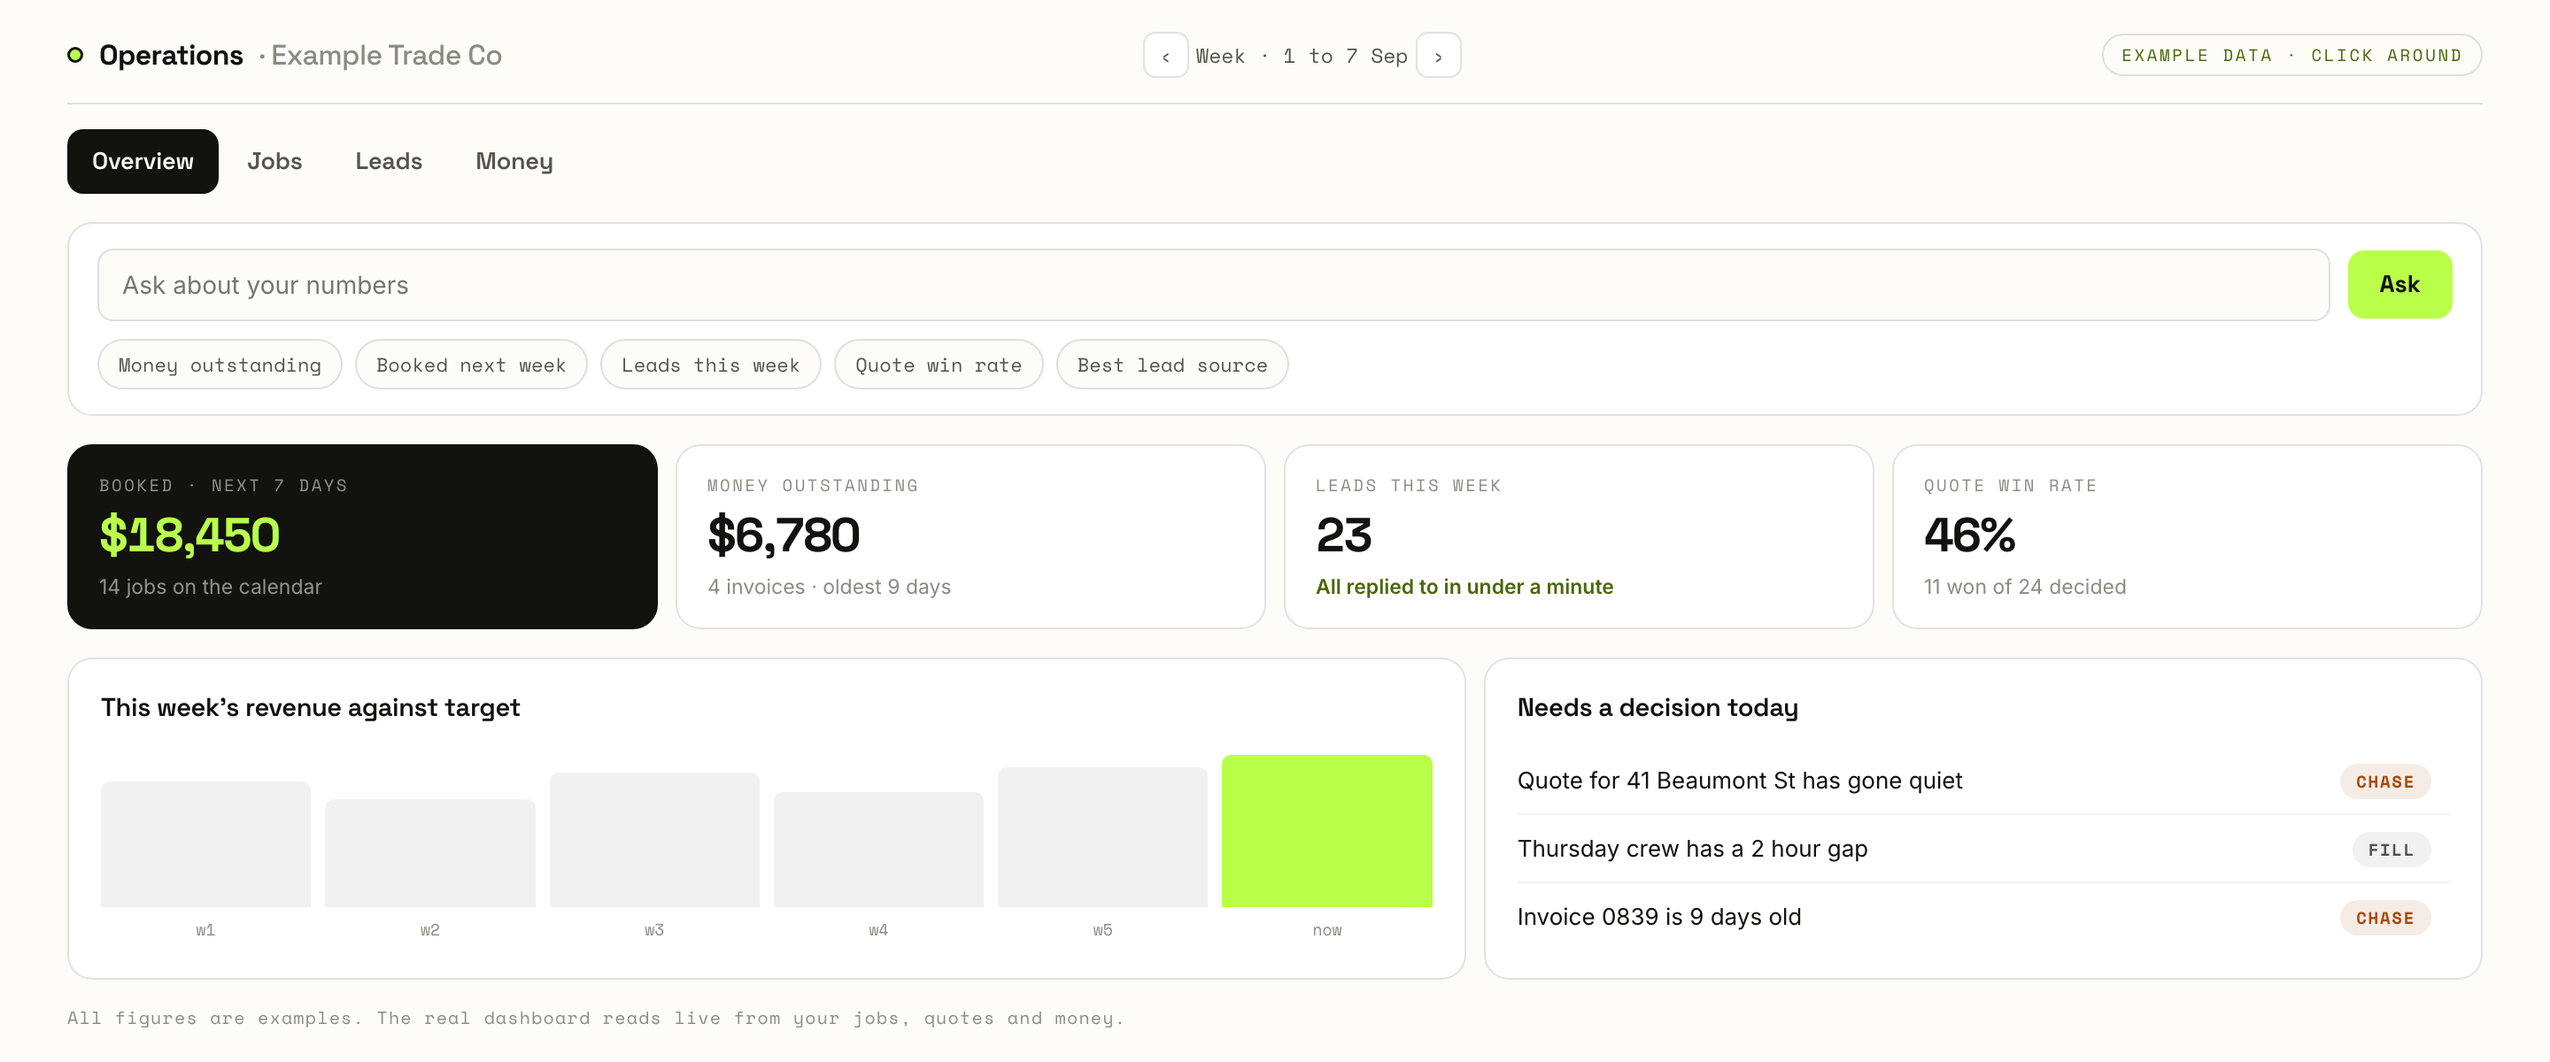
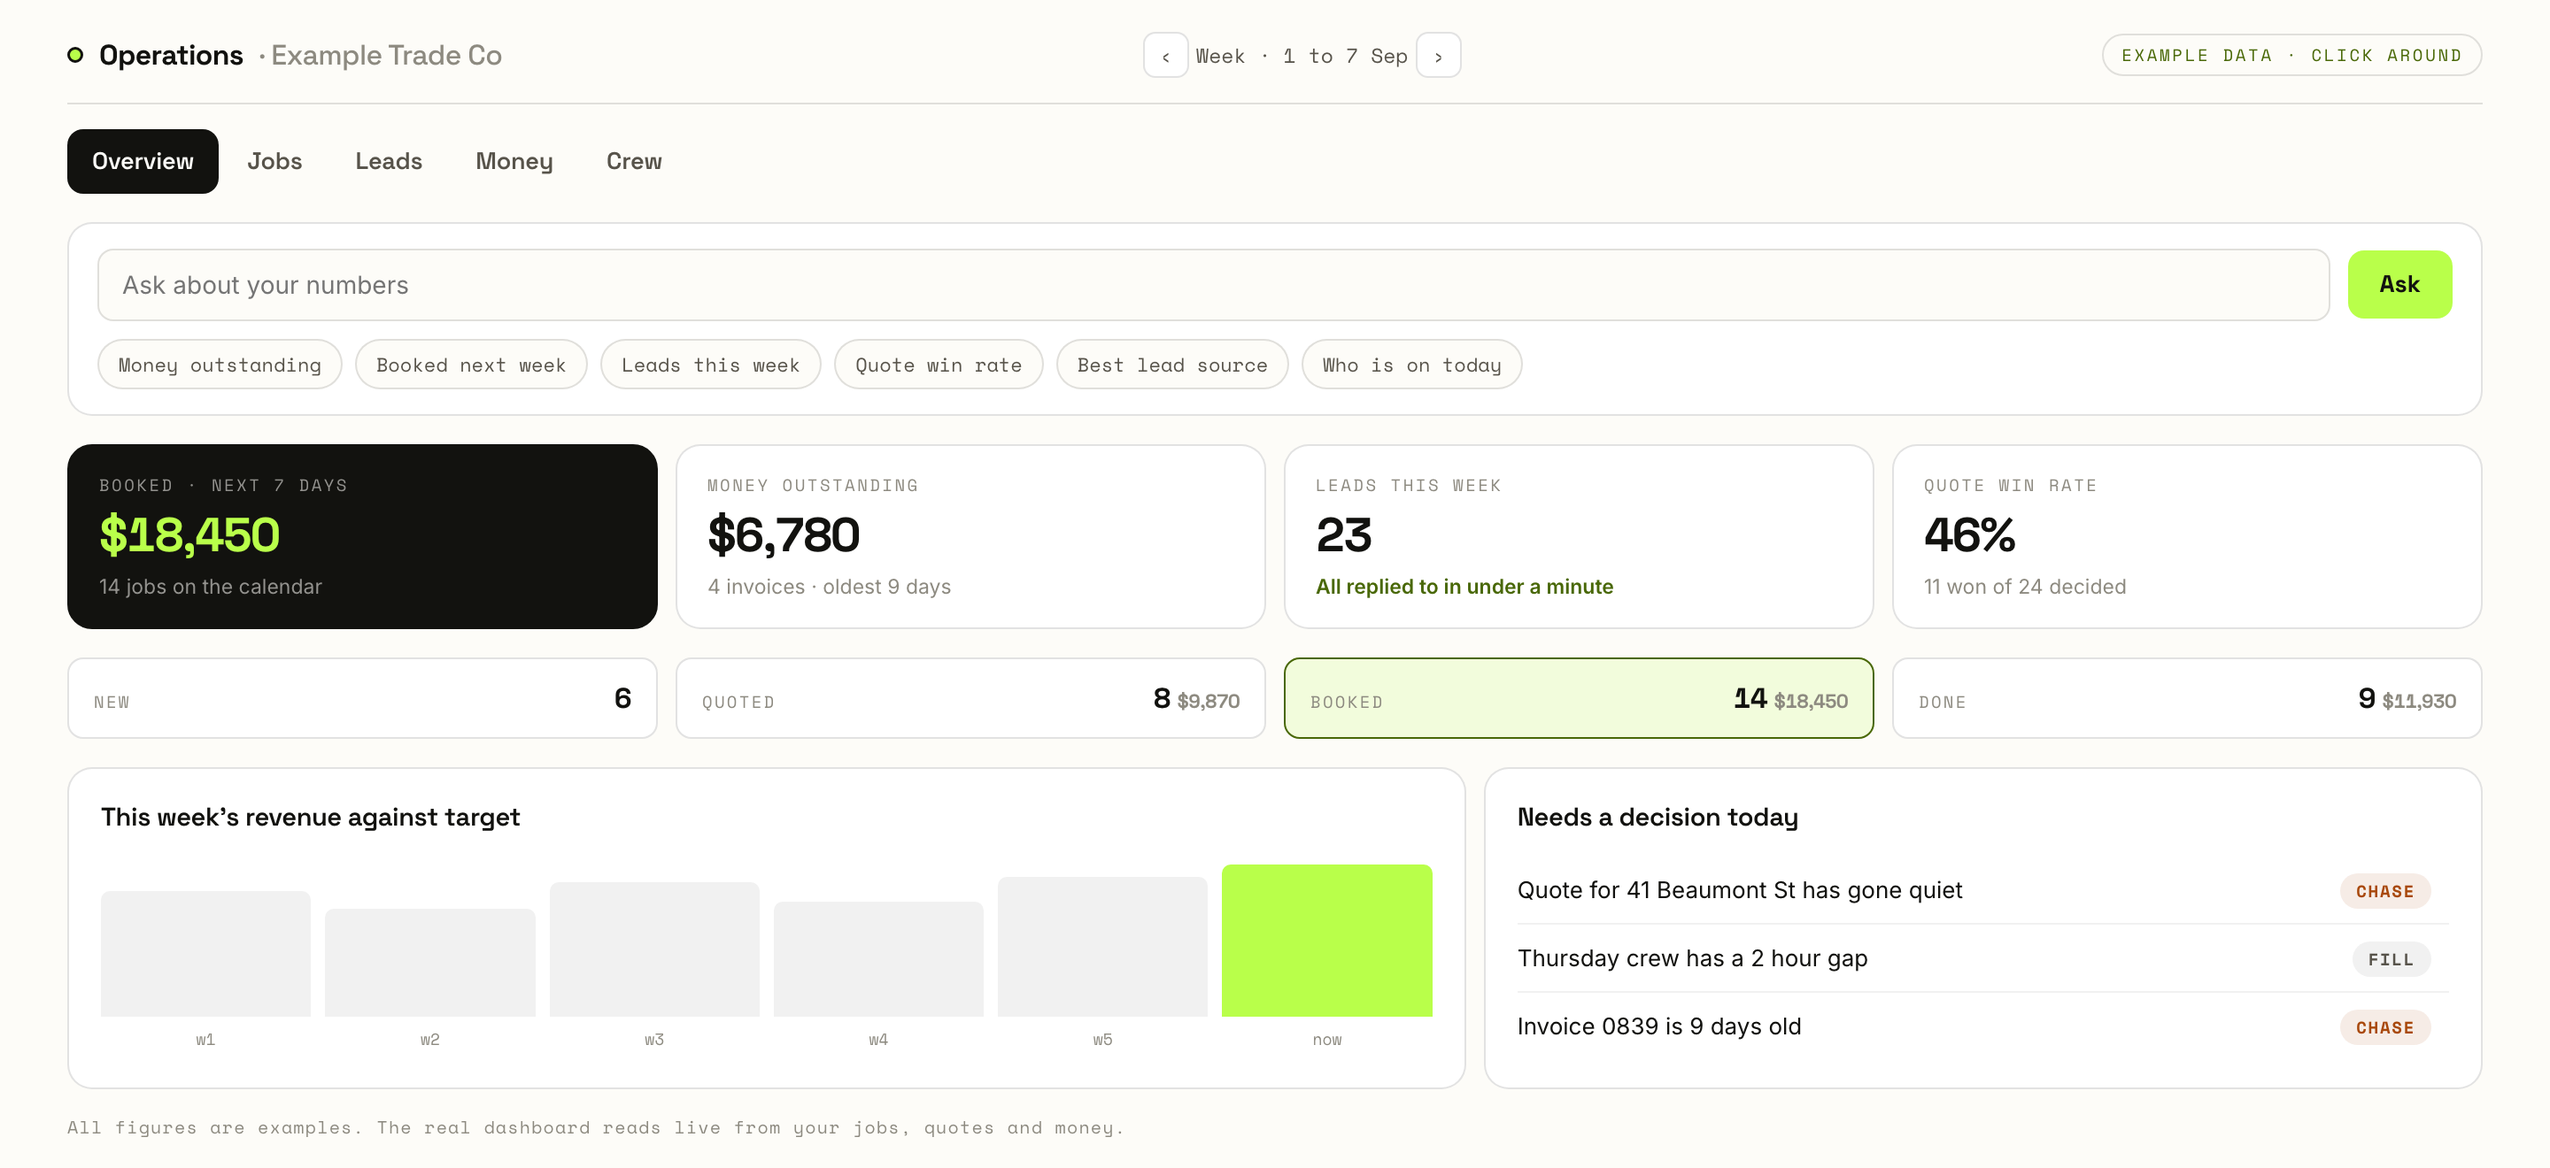
Dashboard demo: pipeline strip, margins, lead scoring, marketing costs, Crew tab
Overview gains a new/quoted/booked/done pipeline strip with dollar values. Jobs
gains a margin column plus weekly margin, avg job value and self-written report
counts. Leads gains hot/warm/cold AI scores per enquiry and ROAS, cost per lead
and cost per booked job. Money gains collected, open-quote value and days to
get paid. New Crew tab: today's timed run per tech, week by tech, EOD reports
and auto-paired photos. All figures stay coherent across tabs and both weeks,
and the demo now accepts ?tab= for deep links. Static proposal shot re-rendered.

diff --git a/dashboard-demo.html b/dashboard-demo.html
@@ -144,6 +144,29 @@
 
   .foot{margin-top:14px;font-family:var(--mono);font-size:10px;letter-spacing:.06em;color:var(--ink-3)}
 
+  /* pipeline strip */
+  .pipe{display:grid;grid-template-columns:repeat(4,1fr);gap:10px;margin-bottom:16px}
+  .stage{background:var(--card);border:1px solid var(--line);border-radius:var(--r-s);padding:10px 14px;display:flex;align-items:baseline;justify-content:space-between;gap:10px}
+  .stage .sk{font-family:var(--mono);font-size:9.5px;letter-spacing:.12em;text-transform:uppercase;color:var(--ink-3)}
+  .stage .sv{font-family:var(--display);font-weight:700;font-size:16px;letter-spacing:-.02em;font-variant-numeric:tabular-nums}
+  .stage .sm{font-size:11px;color:var(--ink-3);font-variant-numeric:tabular-nums}
+  .stage.now{border-color:var(--accent-deep);background:var(--accent-wash)}
+
+  /* mini stat row */
+  .mini{display:grid;grid-template-columns:repeat(3,1fr);gap:10px;margin-top:10px}
+  .mini .m{background:var(--card);border:1px solid var(--line);border-radius:var(--r-s);padding:11px 14px}
+  .mini .mk{font-family:var(--mono);font-size:9px;letter-spacing:.12em;text-transform:uppercase;color:var(--ink-3);display:block;margin-bottom:5px}
+  .mini .mv{font-family:var(--display);font-weight:700;font-size:17px;letter-spacing:-.025em;font-variant-numeric:tabular-nums}
+  .mini .mv small{font-family:var(--body);font-weight:400;font-size:11px;color:var(--ink-3);margin-left:5px}
+
+  /* crew */
+  .runrow td:first-child{font-family:var(--mono);font-size:11px;color:var(--ink-3);white-space:nowrap}
+  .score{font-family:var(--mono);font-size:9.5px;letter-spacing:.08em;border-radius:20px;padding:3px 9px;white-space:nowrap}
+  .score.hot{background:var(--accent);color:#10150f}
+  .score.warm{background:var(--accent-wash);color:var(--accent-deep)}
+  .score.cold{background:var(--line-2);color:var(--ink-3)}
+  @media(max-width:860px){.pipe{grid-template-columns:repeat(2,1fr)}.mini{grid-template-columns:1fr}}
+
   @media(max-width:860px){
     .kpis{grid-template-columns:repeat(2,1fr)}
     .grid2{grid-template-columns:1fr}
@@ -173,6 +196,7 @@
     <button class="tab" role="tab" aria-selected="false" data-panel="jobs">Jobs</button>
     <button class="tab" role="tab" aria-selected="false" data-panel="leads">Leads</button>
     <button class="tab" role="tab" aria-selected="false" data-panel="money">Money</button>
+    <button class="tab" role="tab" aria-selected="false" data-panel="crew">Crew</button>
   </div>
 
   <div class="ask">
@@ -186,6 +210,7 @@
       <button class="chip" data-q="How many leads this week?">Leads this week</button>
       <button class="chip" data-q="What is our quote win rate?">Quote win rate</button>
       <button class="chip" data-q="Where do our best leads come from?">Best lead source</button>
+      <button class="chip" data-q="Who is on today?">Who is on today</button>
     </div>
     <div class="answer" id="answer" role="status"></div>
   </div>
@@ -198,6 +223,7 @@
       <div class="kpi"><span class="k">Leads this week</span><span class="v" id="kLeads">23</span><span class="s" id="kLeadsS"><b>All replied to in under a minute</b></span></div>
       <div class="kpi"><span class="k">Quote win rate</span><span class="v" id="kWin">46%</span><span class="s" id="kWinS">11 won of 24 decided</span></div>
     </div>
+    <div class="pipe" id="pipeStrip"></div>
     <div class="grid2">
       <div class="card">
         <h2>This week&rsquo;s revenue against target</h2>
@@ -221,15 +247,20 @@
     <div class="card">
       <h2>Jobs this week</h2>
       <table>
-        <thead><tr><th>Job</th><th>Crew</th><th class="num">Value</th><th class="num">Status</th></tr></thead>
+        <thead><tr><th>Job</th><th>Crew</th><th class="num">Value</th><th class="num">Margin</th><th class="num">Status</th></tr></thead>
         <tbody>
-          <tr><td>House + roof wash &middot; 14 Lancaster Rd, Ascot</td><td>Tom</td><td class="num">$2,570</td><td class="num"><span class="pill booked">Booked Tue</span></td></tr>
-          <tr><td>Driveway + gutters &middot; 8 Kedron St, Hamilton</td><td>Tom</td><td class="num">$890</td><td class="num"><span class="pill booked">Booked Wed</span></td></tr>
-          <tr><td>Full exterior &middot; 22 Windermere Rd, Clayfield</td><td>Jake</td><td class="num">$1,940</td><td class="num"><span class="pill done">Done Mon</span></td></tr>
-          <tr><td>Render soft wash &middot; 41 Beaumont St, Hendra</td><td>Unassigned</td><td class="num">$1,150</td><td class="num"><span class="pill chase">Quote quiet 6 days</span></td></tr>
-          <tr><td>Solar + roof &middot; 3 Oriel Rd, Ascot</td><td>Jake</td><td class="num">$1,480</td><td class="num"><span class="pill quoted">Quoted today</span></td></tr>
+          <tr><td>House + roof wash &middot; 14 Lancaster Rd, Ascot</td><td>Tom</td><td class="num">$2,570</td><td class="num">62%</td><td class="num"><span class="pill booked">Booked Tue</span></td></tr>
+          <tr><td>Driveway + gutters &middot; 8 Kedron St, Hamilton</td><td>Tom</td><td class="num">$890</td><td class="num">54%</td><td class="num"><span class="pill booked">Booked Wed</span></td></tr>
+          <tr><td>Full exterior &middot; 22 Windermere Rd, Clayfield</td><td>Jake</td><td class="num">$1,940</td><td class="num">59%</td><td class="num"><span class="pill done">Done Mon</span></td></tr>
+          <tr><td>Render soft wash &middot; 41 Beaumont St, Hendra</td><td>Unassigned</td><td class="num">$1,150</td><td class="num">57%</td><td class="num"><span class="pill chase">Quote quiet 6 days</span></td></tr>
+          <tr><td>Solar + roof &middot; 3 Oriel Rd, Ascot</td><td>Jake</td><td class="num">$1,480</td><td class="num">61%</td><td class="num"><span class="pill quoted">Quoted today</span></td></tr>
         </tbody>
       </table>
+      <div class="mini">
+        <div class="m"><span class="mk">Margin on the week</span><span class="mv" id="jMargin">58%</span></div>
+        <div class="m"><span class="mk">Avg job value</span><span class="mv" id="jAvg">$1,320</span></div>
+        <div class="m"><span class="mk">Job reports written for you</span><span class="mv" id="jReports">12<small>this week, none typed</small></span></div>
+      </div>
     </div>
   </div>
 
@@ -244,12 +275,18 @@
         <h2>Newest enquiries</h2>
         <table>
           <tbody>
-            <tr><td>Sarah M &middot; Ascot</td><td>Meta ad</td><td class="num"><span class="pill booked">Replied 42s</span></td></tr>
-            <tr><td>Dean R &middot; Hamilton</td><td>Google</td><td class="num"><span class="pill booked">Replied 38s</span></td></tr>
-            <tr><td>Priya K &middot; Clayfield</td><td>Word of mouth</td><td class="num"><span class="pill quoted">Quoting</span></td></tr>
+            <tr><td>Sarah M &middot; Ascot</td><td>Meta ad &middot; replied 42s</td><td class="num"><span class="score hot">Hot &middot; 8.6</span></td></tr>
+            <tr><td>Dean R &middot; Hamilton</td><td>Google &middot; replied 38s</td><td class="num"><span class="score hot">Hot &middot; 7.9</span></td></tr>
+            <tr><td>Priya K &middot; Clayfield</td><td>Word of mouth &middot; quoting</td><td class="num"><span class="score warm">Warm &middot; 6.1</span></td></tr>
+            <tr><td>Griffin B &middot; Wavell Heights</td><td>Meta ad &middot; replied 51s</td><td class="num"><span class="score cold">Cold &middot; 3.4</span></td></tr>
           </tbody>
         </table>
       </div>
+    </div>
+    <div class="mini">
+      <div class="m"><span class="mk">Return on ad spend</span><span class="mv" id="mRoas">4.1x</span></div>
+      <div class="m"><span class="mk">Cost per lead</span><span class="mv" id="mCpl">$19</span></div>
+      <div class="m"><span class="mk">Cost per booked job</span><span class="mv" id="mCpb">$86</span></div>
     </div>
   </div>
 
@@ -268,6 +305,37 @@
         <div class="rev" id="revBars2"></div>
       </div>
     </div>
+    <div class="mini">
+      <div class="m"><span class="mk">Collected this week</span><span class="mv" id="moCollected">$17,240</span></div>
+      <div class="m"><span class="mk">Sitting in open quotes</span><span class="mv" id="moOpen">$9,870</span></div>
+      <div class="m"><span class="mk">Avg days to get paid</span><span class="mv" id="moDays">4.2</span></div>
+    </div>
+  </div>
+
+  <!-- CREW -->
+  <div class="panel" id="p-crew">
+    <div class="grid2">
+      <div class="card">
+        <h2>Today&rsquo;s run</h2>
+        <table>
+          <tbody>
+            <tr class="runrow"><td>7:30</td><td>Jake &middot; Full exterior &middot; Clayfield</td><td class="num"><span class="pill done">Done</span></td></tr>
+            <tr class="runrow"><td>8:00</td><td>Tom &middot; House + roof &middot; Ascot</td><td class="num"><span class="pill booked">On site</span></td></tr>
+            <tr class="runrow"><td>11:30</td><td>Tom &middot; Driveway + gutters &middot; Hamilton</td><td class="num"><span class="pill quoted">Next</span></td></tr>
+            <tr class="runrow"><td>1:00</td><td>Jake &middot; Solar + roof &middot; Ascot</td><td class="num"><span class="pill quoted">Booked</span></td></tr>
+            <tr class="runrow"><td>2:30</td><td>Tom &middot; Quote visit &middot; Hendra</td><td class="num"><span class="pill quoted">Booked</span></td></tr>
+          </tbody>
+        </table>
+      </div>
+      <div class="card">
+        <h2>The week by tech</h2>
+        <div class="bars" id="crewBars"></div>
+        <div class="mini" style="grid-template-columns:1fr 1fr">
+          <div class="m"><span class="mk">EOD reports</span><span class="mv" id="cEod">5<small>wrote themselves at 6pm</small></span></div>
+          <div class="m"><span class="mk">Photos filed</span><span class="mv" id="cPhotos">148<small>before and after, auto paired</small></span></div>
+        </div>
+      </div>
+    </div>
   </div>
 
   <div class="foot">All figures are examples. The real dashboard reads live from your jobs, quotes and money.</div>
@@ -278,15 +346,22 @@
   "use strict";
   var look = new URLSearchParams(location.search).get("look");
   if (["midnight","ledger","steel"].indexOf(look) > -1) document.body.dataset.look = look;
+  var tb0 = new URLSearchParams(location.search).get("tab");
   var weeks = [
     { label:"Week · 25 to 31 Aug", booked:"$16,900", bookedS:"12 jobs on the calendar",
       out:"$9,240", outS:"6 invoices · oldest 12 days", leads:"19", win:"41%", winS:"9 won of 22 decided",
       rev:[14200,17800,15400,19100,16300,19850], src:[["Meta ads",9],["Google",4],["Word of mouth",4],["Door to door",2]],
-      inv:[["0831","12 days","$3,180"],["0834","8 days","$2,340"],["0835","6 days","$1,610"],["0837","4 days","$1,240"],["0838","2 days","$870"]] },
+      inv:[["0831","12 days","$3,180"],["0834","8 days","$2,340"],["0835","6 days","$1,610"],["0837","4 days","$1,240"],["0838","2 days","$870"]],
+      pipe:[["New",5,""],["Quoted",7,"$8,420"],["Booked",12,"$16,900"],["Done",8,"$10,410"]],
+      jm:"55%", javg:"$1,240", jrep:"10", roas:"3.6x", cpl:"$21", cpb:"$94",
+      collected:"$15,900", openq:"$8,420", days:"4.8", crew:[["Tom",10],["Jake",8]], eod:"5", photos:"131" },
     { label:"Week · 1 to 7 Sep", booked:"$18,450", bookedS:"14 jobs on the calendar",
       out:"$6,780", outS:"4 invoices · oldest 9 days", leads:"23", win:"46%", winS:"11 won of 24 decided",
       rev:[17800,15400,19100,16300,19850,21600], src:[["Meta ads",11],["Google",5],["Word of mouth",4],["Door to door",3]],
-      inv:[["0839","9 days","$2,340"],["0841","5 days","$1,890"],["0842","3 days","$1,450"],["0844","1 day","$1,100"]] }
+      inv:[["0839","9 days","$2,340"],["0841","5 days","$1,890"],["0842","3 days","$1,450"],["0844","1 day","$1,100"]],
+      pipe:[["New",6,""],["Quoted",8,"$9,870"],["Booked",14,"$18,450"],["Done",9,"$11,930"]],
+      jm:"58%", javg:"$1,320", jrep:"12", roas:"4.1x", cpl:"$19", cpb:"$86",
+      collected:"$17,240", openq:"$9,870", days:"4.2", crew:[["Tom",11],["Jake",9]], eod:"5", photos:"148" }
   ];
   var wi = 1;
   function $(id){ return document.getElementById(id); }
@@ -328,6 +403,19 @@
     bars($("revBars"), w.rev, wl); bars($("revBars2"), w.rev, wl);
     srcBars($("srcBars"), w.src);
     $("outTag").textContent = w.out + " total";
+    var ps = $("pipeStrip"); ps.innerHTML = "";
+    w.pipe.forEach(function(st, i){
+      var d = document.createElement("div"); d.className = "stage" + (i === 2 ? " now" : "");
+      d.innerHTML = "<span class='sk'>" + st[0] + "</span><span class='sv'>" + st[1] +
+        (st[2] ? " <span class='sm'>" + st[2] + "</span>" : "") + "</span>";
+      ps.appendChild(d);
+    });
+    $("jMargin").textContent = w.jm; $("jAvg").textContent = w.javg;
+    $("jReports").childNodes[0].textContent = w.jrep;
+    $("mRoas").textContent = w.roas; $("mCpl").textContent = w.cpl; $("mCpb").textContent = w.cpb;
+    $("moCollected").textContent = w.collected; $("moOpen").textContent = w.openq; $("moDays").textContent = w.days;
+    srcBars($("crewBars"), w.crew);
+    $("cEod").childNodes[0].textContent = w.eod; $("cPhotos").childNodes[0].textContent = w.photos;
     var tb = $("invRows"); tb.innerHTML = "";
     w.inv.forEach(function(r){
       var tr = document.createElement("tr");
@@ -359,6 +447,12 @@
       a = "<b>Quote win rate is " + w.win + "</b>, " + w.winS.toLowerCase() + ". The quiet quote at 41 Beaumont St is the one to chase first.";
     else if (s.indexOf("source") > -1 || s.indexOf("come") > -1 || s.indexOf("best") > -1)
       a = "<b>" + w.src[0][0] + " is the best source this week</b> with " + w.src[0][1] + " leads, then " + w.src[1][0].toLowerCase() + " with " + w.src[1][1] + ". Door to door brought " + w.src[3][1] + ".";
+    else if (s.indexOf("who") > -1 || s.indexOf("crew") > -1 || s.indexOf("today") > -1)
+      a = "<b>Tom has three stops today</b>: Ascot at 8, Hamilton at 11:30, then a quote visit in Hendra. Jake finished Clayfield this morning and is on Oriel Rd at 1.";
+    else if (s.indexOf("margin") > -1)
+      a = "<b>Margin is running at " + w.jm + " this week</b> on an average job of " + w.javg + ". The Ascot house and roof job is the best of the week at 62%.";
+    else if (s.indexOf("quote") > -1 && (s.indexOf("open") > -1 || s.indexOf("sitting") > -1 || s.indexOf("pipeline") > -1))
+      a = "<b>" + w.openq + " is sitting in open quotes.</b> One of them has gone quiet for 6 days and is queued for a chase.";
     else if (s.indexOf("revenue") > -1 || s.indexOf("target") > -1)
       a = "<b>$" + w.rev[5].toLocaleString() + " so far this week</b> against a $25,000 target, tracking " + (wi ? "86%" : "79%") + " with two working days left.";
     else
@@ -373,6 +467,7 @@
   });
 
   render();
+  if (tb0) { var tbtn = document.querySelector('.tab[data-panel="' + tb0 + '"]'); if (tbtn) tbtn.click(); }
 })();
 </script>
 </body>

diff --git a/dashboard.html b/dashboard.html
@@ -359,7 +359,7 @@
   .shot{margin:clamp(36px,5vw,64px) 0 0}
   .shot-frame{border:1px solid var(--line);border-radius:calc(var(--radius) - 4px);background:var(--card);padding:8px;box-shadow:0 34px 70px -34px rgba(15,15,13,.5);overflow:hidden}
   .shot-frame img{display:block;width:100%;height:auto;border-radius:calc(var(--radius) - 12px)}
-  .shot-frame iframe{display:block;width:100%;height:clamp(560px,50vw,640px);border:0;border-radius:calc(var(--radius) - 12px);background:#fdfcf8}
+  .shot-frame iframe{display:block;width:100%;height:clamp(580px,52vw,700px);border:0;border-radius:calc(var(--radius) - 12px);background:#fdfcf8}
   .look-row{display:flex;align-items:center;gap:8px;flex-wrap:wrap;margin:0 0 12px}
   .look-row .ll{font-family:var(--font-mono);font-size:11px;letter-spacing:.12em;text-transform:uppercase;color:var(--ink-3);margin-right:4px}
   .look{font-family:var(--font-display);font-weight:600;font-size:13.5px;letter-spacing:-.01em;color:var(--ink-2);background:var(--card);border:1px solid var(--line);border-radius:20px;padding:7px 15px;cursor:pointer}

diff --git a/proposal.html b/proposal.html
@@ -497,7 +497,7 @@
   <section class="p-sec preview">
     <h3>What it looks like</h3>
     <div class="mock">
-      <img src="/dashboard-example.png" width="1440" height="600" decoding="async"
+      <img src="/dashboard-example.png" width="1440" height="660" decoding="async"
            alt="The Dript dashboard: today's revenue, payments to be collected, jobs booked in the next 7 days, weekly revenue against target, ROAS, weekly and daily leads, and quote win rate.">
     </div>
     <p class="note">This is the dashboard we run our own exterior cleaning business, Dript, on every day, with example figures in place of live customer data. Yours is built around your jobs, your numbers and the tools you already use, so the screens are named after how you actually work.</p>
